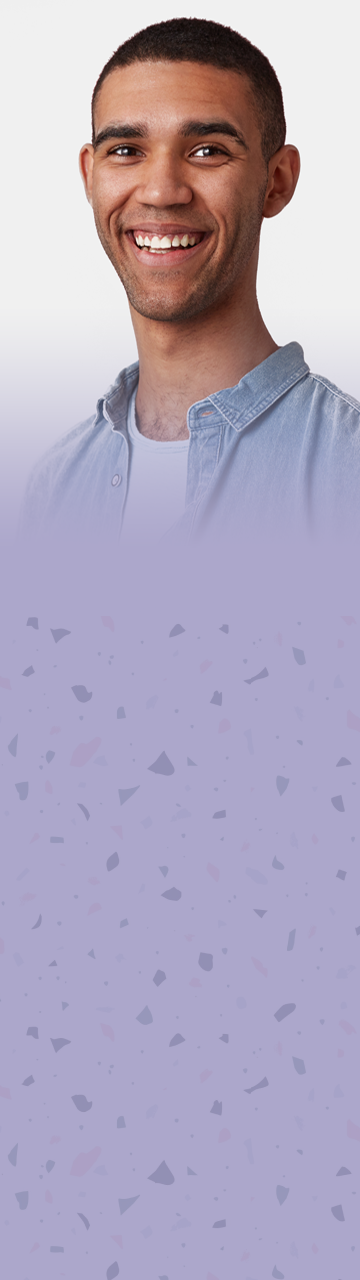
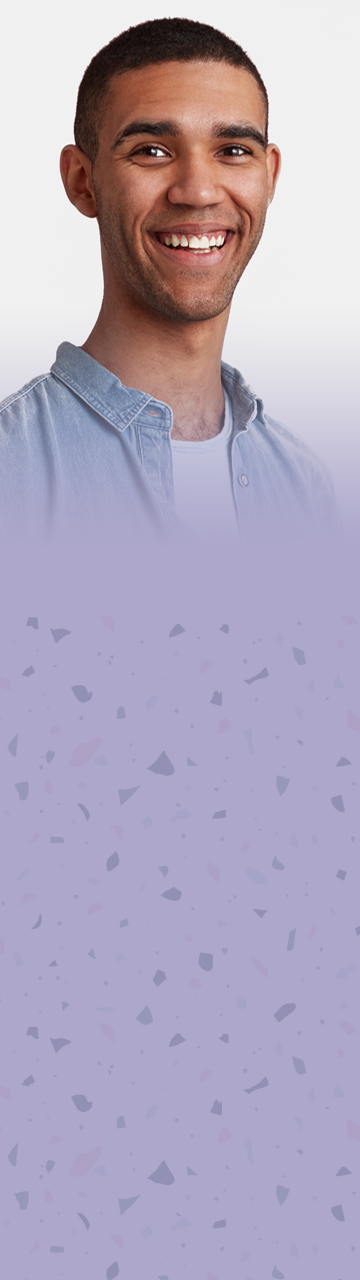
indexwilders fixed, add rank on wilders page

Changed region(s): [[0.0, 0.0, 1.0, 0.4062]]

diff --git a/wilders.css b/wilders.css
@@ -60,7 +60,10 @@ nav {
 nav h2 {
 	color: var(--h2-font-color);
 }
-/***************** TOP PART *****************/
+
+/*******************************************************************************
+ 							TOP PART
+ ******************************************************************************/
 
 .top-info {
 	display: flex;
@@ -134,7 +137,11 @@ a .arrowright-mobile {
 .arrowright-desktop {
 	display: none;
 }
-/************* BOTTOM PART************/
+
+/*******************************************************************************
+ 							BOTTOM PART
+ ******************************************************************************/
+
 .buttonscroll {
 	display: flex;
 	position: relative;
@@ -199,6 +206,17 @@ a .arrowright-mobile {
 	width: 20px;
 }
 
+.containers {
+	display: block;
+	position: relative;
+	padding: 0;
+	text-align: center;
+}
+
+.containers img {
+	max-height: 33%;
+}
+
 #background-desktop-amina,
 #background-desktop-benjamin,
 #background-desktop-victor,
@@ -213,8 +231,12 @@ a .arrowright-mobile {
 	display: none;
 }
 
-/* MEDIA QUERIES*/
-/* show*/
+p.rank {
+	display: none;
+}
+/*******************************************************************************
+ 							MEDIA QUERIES SHOWN
+ ******************************************************************************/
 
 @media screen and (min-width: 361px) {
 	#background-desktop-amina,
@@ -240,7 +262,6 @@ a .arrowright-mobile {
 		width: 30%;
 		bottom: 85vh;
 		left: 52vw;
-		color: var(--default-font-color);
 	}
 
 	.bottom-text {
@@ -261,6 +282,14 @@ a .arrowright-mobile {
 		position: relative;
 	}
 
+	p.rank {
+		display: flex;
+		position: relative;
+		width: 20%;
+		left: 52vw;
+		bottom: 157vh;
+		color: var(--dark-background-color);
+	}
 	.badge {
 		bottom: 91.5vh;
 		left: 94.5vw;
@@ -270,8 +299,10 @@ a .arrowright-mobile {
 	}
 
 	.bottom.social-icons {
+		display: flex;
+		position: relative;
 		width: 70px;
-		bottom: 163.5vh;
+		bottom: 167vh;
 		left: 75vw;
 		height: 5vh;
 		justify-content: space-between;
@@ -311,13 +342,23 @@ a .arrowright-mobile {
 
 	.containers {
 		overflow: hidden;
-		display: flex;
+		display: block;
 		position: relative;
-		width: 80vw;
-		height: auto;
+		margin-left: auto;
+		margin-right: auto;
+		top: 5vh;
+		width: 60vw;
+		height: 90vh;
+		text-align: center;
 	}
 
-	/*hide*/
+	.containers img {
+		max-height: 33%;
+	}
+
+	/*******************************************************************************
+ 							MEDIA QUERIES HIDDEN
+ ******************************************************************************/
 	#background-mobile-amina,
 	#background-mobile-benjamin,
 	#background-mobile-victor,

diff --git a/wildersamina.html b/wildersamina.html
@@ -15,8 +15,9 @@
         <div class="top-info">
             <h2>Chakir<h2>
             <h1>Amina</h1>
+
         </div>  
-        
+
         <p class="top-quote">"Fan de patisseries et de viennoiseries"</p>
         <img src="./assets/couronne.png" class="badge" alt="Badge courrone"/> 
         <a href="./wildersromain.html"><img src="/assets/Arrowleft.png" class="arrowleft-mobile" alt="Bouton qui permet d'aller vers la page de gauche"/></a>
@@ -37,12 +38,13 @@
         <div class="bottom-info">
           <h2>Chakir</h2>
           <h1>Amina</h1>
+
               <p class="bottom-text">La gourou du clavier, transforme les bugs en papillons et les lignes de code en poésie digitale.
               Elle est la magicienne du web qui ne craint pas les erreurs 404 ! </br><br>
               Malheureusement la créativité l'a quittée si longtemps qu'elle a érigé un péage pour les idées qui essaient de revenir.
               </p>
         </div>
-
+        <p class="rank" id> Maîtresse Jedi </p>
         <div class="contactbutton">
             <a href="#">Contactez</a>
         </div>

diff --git a/wildersbenjamin.html b/wildersbenjamin.html
@@ -41,11 +41,11 @@
                  Saupoudre ses projets d'humour avec le  'Monsieur du même' même si parfois Son sens de l'humour plonge dans des profondeurs insondables.
                 </p>
         </div>
-        
+        <p class="rank" id>Chevalier Jedi</p>       
         <div class="contactbutton">
             <a href="#">Contactez</a>
         </div>
-        
+           
           <div class="bottom social-icons">
               <a href="https://www.linkedin.com/"><img src="./assets/linkedin.png" alt="Liens linkedin"></a>
               <a href="https://www.instagram.com/"><img src="./assets/instagram.png" alt="Liens instagram"></a>

diff --git a/wildersryad.html b/wildersryad.html
@@ -39,11 +39,11 @@
                  L’expert du chaos organisé, sait toujours où se trouvent ses désordres, même s'il a du mal à trouver son propre stylo !
                 </p>
             </div>
-
+            <p class="rank" id>Paddawan </p> 
         <div class="contactbutton">
             <a href="#">Contactez</a>
         </div>
-          
+            
           <div class="bottom social-icons">
               <a href="https://www.linkedin.com/"><img src="./assets/linkedin.png" alt="Liens linkedin"></a>
               <a href="https://www.instagram.com/"><img src="./assets/instagram.png" alt="Liens instagram"></a>

diff --git a/wilderspaul.html b/wilderspaul.html
@@ -40,11 +40,11 @@
                  L'adepte de Red Bull, est si gentil qu'il laisse même les bugs dans son code prendre une pause café et discuter de leurs problèmes.
                 </p>
             </div>
-
+            <p class="rank" id>Paddawan </p>   
         <div class="contactbutton">
             <a href="#">Contactez</a>
         </div>
-
+ 
           <div class="bottom social-icons">
               <a href="https://www.linkedin.com/"><img src="./assets/linkedin.png" alt="Liens linkedin"></a>
               <a href="https://www.instagram.com/"><img src="./assets/instagram.png" alt="Liens instagram"></a>

diff --git a/wildersromain.html b/wildersromain.html
@@ -41,11 +41,11 @@
                 Le maître du sérieux, ne sourit pas souvent, mais quand il le fait, même les ordinateurs enregistrent cet événement rare !
                 </p>
             </div>
-
+            <p class="rank" id>Paddawan </p>  
         <div class="contactbutton">
             <a href="#">Contactez</a>
         </div>
-
+  
           <div class="bottom social-icons">
               <a href="https://www.linkedin.com/"><img src="./assets/linkedin.png" alt="Liens linkedin"></a>
               <a href="https://www.instagram.com/"><img src="./assets/instagram.png" alt="Liens instagram"></a>

diff --git a/wildersvictor.html b/wildersvictor.html
@@ -40,11 +40,11 @@
                  Quand il ne débogue pas, il débouche une bouteille pour célébrer ses succès virtuels.
                 </p>
             </div>
-
+            <p class="rank" id>Paddawan </p>  
         <div class="contactbutton">
             <a href="#">Contactez</a>
         </div>
-          
+            
           <div class="bottom social-icons">
               <a href="https://www.linkedin.com/"><img src="./assets/linkedin.png" alt="Liens linkedin"></a>
               <a href="https://www.instagram.com/"><img src="./assets/instagram.png" alt="Liens instagram"></a>

diff --git a/wildersplouis.html b/wildersplouis.html
@@ -41,10 +41,11 @@
                  Il est si mystérieux qu'il a probablement un abonnement à la newsletter du Triangle des Bermudes.
                 </p>
             </div>
+            <p class="rank" id>Paddawan </p>    
         <div class="contactbutton">
             <a href="#">Contactez</a>
         </div>
-
+  
           <div class="bottom social-icons">
               <a href="https://www.linkedin.com/"><img src="./assets/linkedin.png" alt="Liens linkedin"></a>
               <a href="https://www.instagram.com/"><img src="./assets/instagram.png" alt="Liens instagram"></a>

diff --git a/wildersaude.html b/wildersaude.html
@@ -39,7 +39,7 @@
                 En dehors de ça, son amour pour le Japon est tel qu'elle rêve en emoji de curry 🍛. Si vous cherchez quelqu'un pour créer des sites web tout en préparant des curry virtuels, elle est votre personne !
                 </p>
             </div>
-            
+            <p class="rank" id>Paddawan </p>           
         <div class="contactbutton">
             <a href="#">Contactez</a>
         </div>

diff --git a/wildersmerwan.html b/wildersmerwan.html
@@ -40,7 +40,7 @@
                  Il est tellement parfait qu'il peut déboguer un code en dormant, mais il est incapable de garder un cactus en vie !
                 </p>
             </div>
-            
+            <p class="rank" id>Paddawan </p>               
         <div class="contactbutton">
             <a href="#">Contactez</a>
         </div>

diff --git a/wildersnicky.html b/wildersnicky.html
@@ -40,7 +40,7 @@
                   Le maître de la distraction, pourrait perdre ses clés dans sa propre poche, mais il ne perd jamais la trace de ses lignes de code !
                 </p>
               </div>
-
+              <p class="rank" id>Paddawan </p>   
         <div class="contactbutton">
             <a href="#">Contactez</a>
         </div>

diff --git a/wildersthomas.html b/wildersthomas.html
@@ -40,7 +40,7 @@
                  Thomas est tellement sauvage que même son ordinateur a du mal à le suivre dans la jungle du code.
                 </p>
             </div>
-
+            <p class="rank" id>Paddawan </p>    
         <div class="contactbutton">
             <a href="#">Contactez</a>
         </div>
